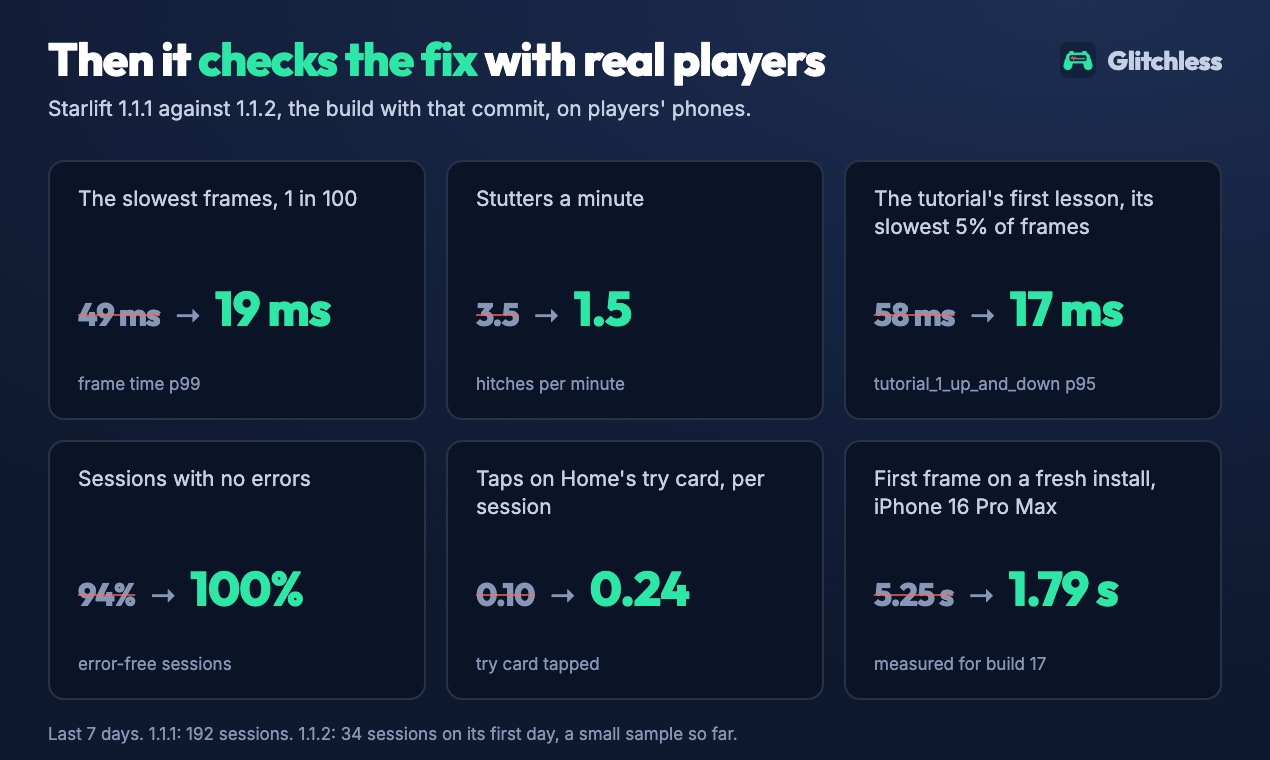
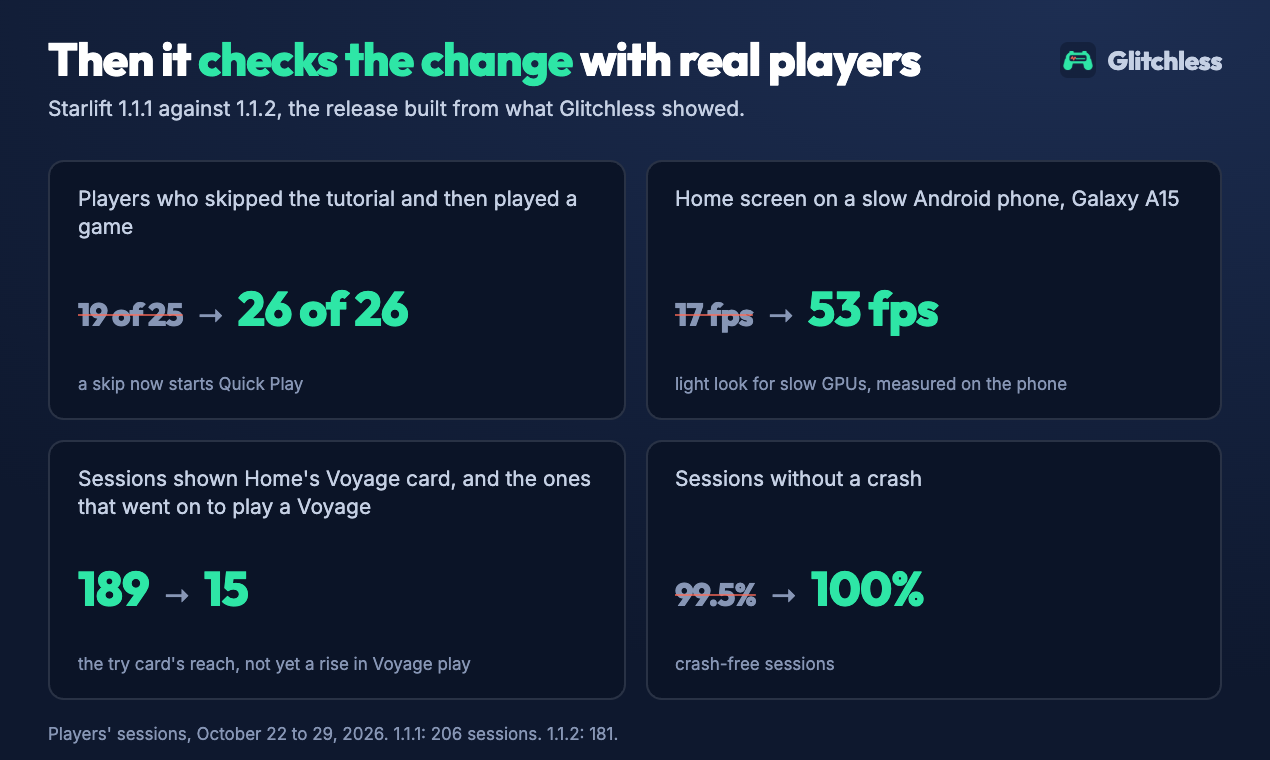
Sync with the private repo at 1d3d86d
Exported from the private repo at 1d3d86d, without cloud/.

diff --git a/docs/release/product-hunt/media/src/gallery-04-before-after.html b/docs/release/product-hunt/media/src/gallery-04-before-after.html
@@ -1,5 +1,6 @@
 <!doctype html>
-<!-- Product Hunt gallery 4, 1270 x 760: Starlift 1.1.1 against 1.1.2 on players' phones (glitchless_compare_versions) -->
+<!-- Product Hunt gallery 4, 1270 x 760: what changed in Starlift 1.1.2 because of Glitchless, with a week of players'
+     sessions on 1.1.1 and on 1.1.2 (glitchless_events funnels, glitchless_compare_versions) -->
 <html lang="en">
 <head>
 <meta charset="utf-8">
@@ -7,7 +8,7 @@
 <link href="https://fonts.googleapis.com/css2?family=Inter:wght@400;500;600&family=JetBrains+Mono:wght@400;600&family=Outfit:wght@800&display=block" rel="stylesheet">
 <link href="_gallery.css" rel="stylesheet">
 <style>
-  .cards { grid-template-columns: repeat(3, 1fr); grid-template-rows: repeat(2, 1fr); bottom: 30px; }
+  .cards { grid-template-columns: repeat(2, 1fr); grid-template-rows: repeat(2, 1fr); bottom: 30px; }
   .card { display: flex; flex-direction: column; justify-content: space-between; }
   .label { font-size: 10.5px; line-height: 1.35; color: var(--fog); min-height: 2.7em; }
   .nums { display: flex; align-items: baseline; gap: 7px; font: 800 24px/1 Outfit, sans-serif; letter-spacing: -0.02em; }
@@ -18,17 +19,15 @@
 </style>
 </head>
 <body>
-  <h1>Then it <em>checks the fix</em> with real players</h1>
-  <div class="sub">Starlift 1.1.1 against 1.1.2, the build with that commit, on players' phones.</div>
+  <h1>Then it <em>checks the change</em> with real players</h1>
+  <div class="sub">Starlift 1.1.1 against 1.1.2, the release built from what Glitchless showed.</div>
   <div class="brand"><img src="../../../../../assets/brand/glitchless/logo/png/glitchless-icon-128.png" alt="">Glitchless</div>
   <div class="cards">
-    <div class="card"><div class="label">The slowest frames, 1 in 100</div><div class="nums"><span class="was">49 ms</span><span class="arrow">→</span><span class="now">19 ms</span></div><div class="what">frame time p99</div></div>
-    <div class="card"><div class="label">Stutters a minute</div><div class="nums"><span class="was">3.5</span><span class="arrow">→</span><span class="now">1.5</span></div><div class="what">hitches per minute</div></div>
-    <div class="card"><div class="label">The tutorial's first lesson, its slowest 5% of frames</div><div class="nums"><span class="was">58 ms</span><span class="arrow">→</span><span class="now">17 ms</span></div><div class="what">tutorial_1_up_and_down p95</div></div>
-    <div class="card"><div class="label">Sessions with no errors</div><div class="nums"><span class="was">94%</span><span class="arrow">→</span><span class="now">100%</span></div><div class="what">error-free sessions</div></div>
-    <div class="card"><div class="label">Taps on Home's try card, per session</div><div class="nums"><span class="was">0.10</span><span class="arrow">→</span><span class="now">0.24</span></div><div class="what">try card tapped</div></div>
-    <div class="card"><div class="label">First frame on a fresh install, iPhone 16 Pro Max</div><div class="nums"><span class="was">5.25 s</span><span class="arrow">→</span><span class="now">1.79 s</span></div><div class="what">measured for build 17</div></div>
+    <div class="card"><div class="label">Players who skipped the tutorial and then played a game</div><div class="nums"><span class="was">19 of 25</span><span class="arrow">→</span><span class="now">26 of 26</span></div><div class="what">a skip now starts Quick Play</div></div>
+    <div class="card"><div class="label">Home screen on a slow Android phone, Galaxy A15</div><div class="nums"><span class="was">17 fps</span><span class="arrow">→</span><span class="now">53 fps</span></div><div class="what">light look for slow GPUs, measured on the phone</div></div>
+    <div class="card"><div class="label">Sessions shown Home's Voyage card, and the ones that went on to play a Voyage</div><div class="nums"><span class="now">189</span><span class="arrow">→</span><span class="now">15</span></div><div class="what">the try card's reach, not yet a rise in Voyage play</div></div>
+    <div class="card"><div class="label">Sessions without a crash</div><div class="nums"><span class="was">99.5%</span><span class="arrow">→</span><span class="now">100%</span></div><div class="what">crash-free sessions</div></div>
   </div>
-  <div class="note">Last 7 days. 1.1.1: 192 sessions. 1.1.2: 34 sessions on its first day, a small sample so far.</div>
+  <div class="note">Players' sessions, October 22 to 29, 2026. 1.1.1: 206 sessions. 1.1.2: 181.</div>
 </body>
 </html>

diff --git a/unreal/Plugins/Glitchless/Source/Glitchless/Private/GlitchlessOutputDevice.h b/unreal/Plugins/Glitchless/Source/Glitchless/Private/GlitchlessOutputDevice.h
@@ -8,7 +8,8 @@
 /**
  * Takes UE_LOG errors (and warnings, when asked) from GLog. Unreal logs from any thread, so a line is
  * only written down here; the game thread takes the list every frame. Ensures come in through the
- * same list. Nothing here may log: that would come straight back in.
+ * same list. Nothing here may log: that would come straight back in. Lines that name the Glitchless server are
+ * the HTTP module's word on the plugin's own requests (a failed send or health check while offline), not the game's.
  */
 class FGlitchlessOutputDevice : public FOutputDevice
 {
@@ -22,6 +23,8 @@ public:
 	};
 
 	void Configure(bool bInErrors, bool bInWarnings);
+	/** The server the plugin sends to: a line that names it is about the plugin's own requests. */
+	void SetIntake(const FString& InIntake);
 	bool CapturesErrors() const { return bErrors; }
 	/** Queues an error found elsewhere (an ensure), to be reported on the game thread. */
 	void Add(const FString& Kind, const FString& Message, const FString& Stack, const FString& Fn);
@@ -37,6 +40,7 @@ private:
 	FCriticalSection Lock;
 	TArray<FEntry> Pending;
 	FString Fatal;
+	FString Intake;
 	bool bErrors = true;
 	bool bWarnings = false;
 };

diff --git a/unity/Packages/gg.glitchless.sdk/Tests/Runtime/RunnerTests.cs b/unity/Packages/gg.glitchless.sdk/Tests/Runtime/RunnerTests.cs
@@ -63,6 +63,27 @@ namespace GlitchlessSdk.Tests
         }
 
         [UnityTest]
+        public IEnumerator TheSdksOwnWarningsAreNotTheGames()
+        {
+            var options = GlitchlessRunner.Core.Options;
+            var was = options.CaptureWarnings;
+            options.CaptureWarnings = true;
+            try
+            {
+                Debug.LogWarning("[glitchless] could not write /tmp/out.json: disk full");
+                Debug.LogWarning("Shop ran out of stock");
+                for (var i = 0; i < 3; i++) yield return null;
+                var messages = Queued("error").Select(e => (string)e["message"]).ToList();
+                CollectionAssert.Contains(messages, "Shop ran out of stock");
+                Assert.IsFalse(messages.Any(m => m.StartsWith("[glitchless]")), string.Join(" | ", messages));
+            }
+            finally
+            {
+                options.CaptureWarnings = was;
+            }
+        }
+
+        [UnityTest]
         public IEnumerator ScenesBecomeLevels()
         {
             var name = "level-7-" + Guid.NewGuid().ToString("N").Substring(0, 4);

diff --git a/unreal/Plugins/Glitchless/Source/Glitchless/Private/GlitchlessOutputDevice.cpp b/unreal/Plugins/Glitchless/Source/Glitchless/Private/GlitchlessOutputDevice.cpp
@@ -25,6 +25,12 @@ void FGlitchlessOutputDevice::Configure(bool bInErrors, bool bInWarnings)
 	bWarnings = bInWarnings;
 }
 
+void FGlitchlessOutputDevice::SetIntake(const FString& InIntake)
+{
+	FScopeLock Guard(&Lock);
+	Intake = InIntake;
+}
+
 void FGlitchlessOutputDevice::Add(const FString& Kind, const FString& Message, const FString& Stack, const FString& Fn)
 {
 	FScopeLock Guard(&Lock);
@@ -75,10 +81,12 @@ void FGlitchlessOutputDevice::Serialize(const TCHAR* V, ELogVerbosity::Type Verb
 		{
 			return;
 		}
-	}
-	if (FCString::Strstr(V, TEXT("/v1/intake")))
-	{
-		return; // a failed send of Glitchless's own, logged by the HTTP module
+		// The HTTP module's word on a request of Glitchless's own (a send or the health check that failed while
+		// offline): every such line names the URL, which starts with the server's.
+		if (!Intake.IsEmpty() && FCString::Strstr(V, *Intake))
+		{
+			return;
+		}
 	}
 	Add(bWarning ? TEXT("warning") : TEXT("log_error"), FString(V), FString(), Category.ToString());
 }

diff --git a/unity/Packages/gg.glitchless.sdk/Runtime/GlitchlessRunner.cs b/unity/Packages/gg.glitchless.sdk/Runtime/GlitchlessRunner.cs
@@ -443,10 +443,12 @@ namespace GlitchlessSdk
         // ───────────────────────────── errors ─────────────────────────────
 
         // Unity calls this from whichever thread logged, so it only writes the entry down; the main thread
-        // takes the list every frame. Nothing here may log: that would come straight back in.
+        // takes the list every frame. Nothing here may log: that would come straight back in. The SDK's own
+        // warnings start with [glitchless] and aren't the game's.
         static void OnLog(string condition, string stack, LogType type)
         {
             if (type == LogType.Log) return;
+            if (condition != null && condition.StartsWith("[glitchless]", StringComparison.Ordinal)) return;
             lock (LogLock)
             {
                 if (Logs.Count < MaxPendingLogs) Logs.Add((condition, stack, type));

diff --git a/unreal/Plugins/Glitchless/Source/Glitchless/Private/Core/GlitchlessCore.h b/unreal/Plugins/Glitchless/Source/Glitchless/Private/Core/GlitchlessCore.h
@@ -359,6 +359,8 @@ namespace Glitchless
 		const std::string& GetService() const { return Service; }
 		const std::string& GetEnv() const { return Env; }
 		const std::string& GetVersion() const { return Version; }
+		/** The server it sends to, with no slash at the end: Options.Intake, or -glitchless-intake. */
+		const std::string& GetIntake() const { return Intake; }
 		double GetBudgetMs() const { return BudgetMs; }
 		int GetFrameCount() const { return FrameCount; }
 		const FOptions& GetOptions() const { return Options; }

diff --git a/unreal/Plugins/Glitchless/Source/Glitchless/Private/GlitchlessRuntime.cpp b/unreal/Plugins/Glitchless/Source/Glitchless/Private/GlitchlessRuntime.cpp
@@ -493,6 +493,7 @@ void FGlitchlessRuntime::Init(const FGlitchlessOptions& Options)
 			bHaveOptions = true;
 		}
 		C.Init(O);
+		LogDevice->SetIntake(GlitchlessText::Tchar(C.GetIntake()));
 		if (C.IsEnabled())
 		{
 			UE_LOG(LogGlitchless, Log, TEXT("Glitchless %s: sending %s %s (%s) to %s"), FGlitchless::SdkVersion(), *GlitchlessText::Tchar(C.GetService()),

diff --git a/docs/SPEC.md b/docs/SPEC.md
@@ -1961,7 +1961,7 @@ retention (§6); a player who wants it deleted asks the game's developer.
 | `level_start` | also sent when a scene that reads as a level becomes active (with no `attrs`); `Glitchless.LevelStart(level, attrs)` adds `attrs`, what the attempt is (`tier`, `party_size`, a build as a list), with the rules of `custom` attributes. The outcome and deaths don't repeat them |
 | `level_abandon` | `Glitchless.LevelAbandon()`; sent by itself, with `reason` `background` (phones), `quit` or `measure`, before `session_end` when a level is open (§2), and `disconnect` when the connection drops mid-level (below); a scene level closes silently when its scene unloads |
 | `load` | `ts` is the first frame; `ttff_ms` counts from Unity's start (`Time.realtimeSinceStartup` at the end of the first frame); `first_launch` from `persistentDataPath/glitchless/launched` (PlayerPrefs `glitchless.launched` in WebGL) |
-| `error` | `kind`: `exception` (uncaught; unhandled, like `js`), `log_error`, `assert`, `manual`, `warning`; adds `recent` (last 6 game events) |
+| `error` | `kind`: `exception` (uncaught; unhandled, like `js`), `log_error`, `assert`, `manual`, `warning`; adds `recent` (last 6 game events). Not sent: the SDK's own warnings (they start with `[glitchless]`) |
 | `death` | `x`, `y`, `z` only when positions are on |
 | `session_end` | `reason`: `background` (phones), `quit`, `measure`; a server's `max_duration` and `match_end` (below) |
 | `custom` | also `screen_change`, `app_resume`. `Track()` adds `sandbox: true` to a purchase in a TestFlight or development install (§3b) |
@@ -1989,7 +1989,7 @@ retention (§6); a player who wants it deleted asks the game's developer.
 | `level_start` | also sent when a map that reads as a level loads (not `Entry`, `MainMenu`, `Lobby`, `Loading`…); the game's first `LevelStart` turns that off |
 | `level_abandon` | `LevelAbandon(Level)` (C++ and Blueprint). Sent by itself, with `reason` `background`, `quit` or `measure`, before `session_end`, for a level (a map level too) started and not ended; a map level that unloads closes without one, and a crash sends none |
 | `load` | `ts` is the first frame's wall-clock time; `ttff_ms` runs from the engine's start (`GStartTime`) to the end of the first frame the plugin times |
-| `error` | `kind`: `crash` (fatal; written to the outbox as the game dies and sent on the next launch, with `session_end` reason `crash`; in anonymous mode under a fresh session ID), `ensure` (an error, not fatal: the game carries on, and each ensure reports once a run), `script` (a Blueprint runtime error such as Accessed None; Unreal stops that Blueprint function, so it is unhandled, like `js`), `log_error` (`UE_LOG` Error; `fn` is the log category), `warning`, `manual`; adds `recent` (last 6 game events) and, for `script`, `attrs.blueprint` |
+| `error` | `kind`: `crash` (fatal; written to the outbox as the game dies and sent on the next launch, with `session_end` reason `crash`; in anonymous mode under a fresh session ID), `ensure` (an error, not fatal: the game carries on, and each ensure reports once a run), `script` (a Blueprint runtime error such as Accessed None; Unreal stops that Blueprint function, so it is unhandled, like `js`), `log_error` (`UE_LOG` Error; `fn` is the log category), `warning`, `manual`; adds `recent` (last 6 game events) and, for `script`, `attrs.blueprint`. Not sent: lines that name the Glitchless server, which are the HTTP module's word on the plugin's own requests (a send or the health check that failed while offline) |
 | `death`, `pos` | positions only when they are on (full mode, or Positions) |
 | `session_end` | `reason`: `quit`, `background` (phones), `measure`, `crash` |
 | `custom` | also `screen_change`, `app_resume`, `rage_input`. `Track` adds `sandbox: true` to a purchase in a TestFlight or development install (§3b) |

diff --git a/docs/release/product-hunt/LISTING.md b/docs/release/product-hunt/LISTING.md
@@ -54,7 +54,7 @@ Hi Product Hunt! I'm Banjo. I make small mobile games, and once Starlift was out
 
 So I built Glitchless. An SDK in the game records how it runs and plays: frame times and stutters with their likely cause, errors, levels and deaths, and the moments you track, like modes or purchases. An MCP server hands the same data to your coding agent. Ask Claude Code "what's wrong with my game?" and it answers from real sessions, makes the fix, then runs bots to check it.
 
-On Starlift it caught a first launch of over 5 seconds; baking the shaders into the build made it 66% faster on iPhone. It also showed that almost nobody tried a mode besides Endless, so a Try card now suggests one, and Voyage went from 1 in 10 sessions to 1 in 6.
+On Starlift it showed Android players getting half the frame rate of iPhone ones, and a lighter look for slow phones took a Galaxy A15 from 17 to 53 fps. It showed that 1 in 4 players who skipped the tutorial left without playing, so a skip now starts a game. And few players tried a mode besides Endless, so Home now suggests one: 189 sessions saw the Voyage card, 19 tapped it and 15 played a Voyage.
 
 It works with Three.js, Phaser, Babylon.js, PlayCanvas, Unity, Godot, Unreal and GameMaker. It's open source and free to self-host, and the hosted version has a free plan.
 
